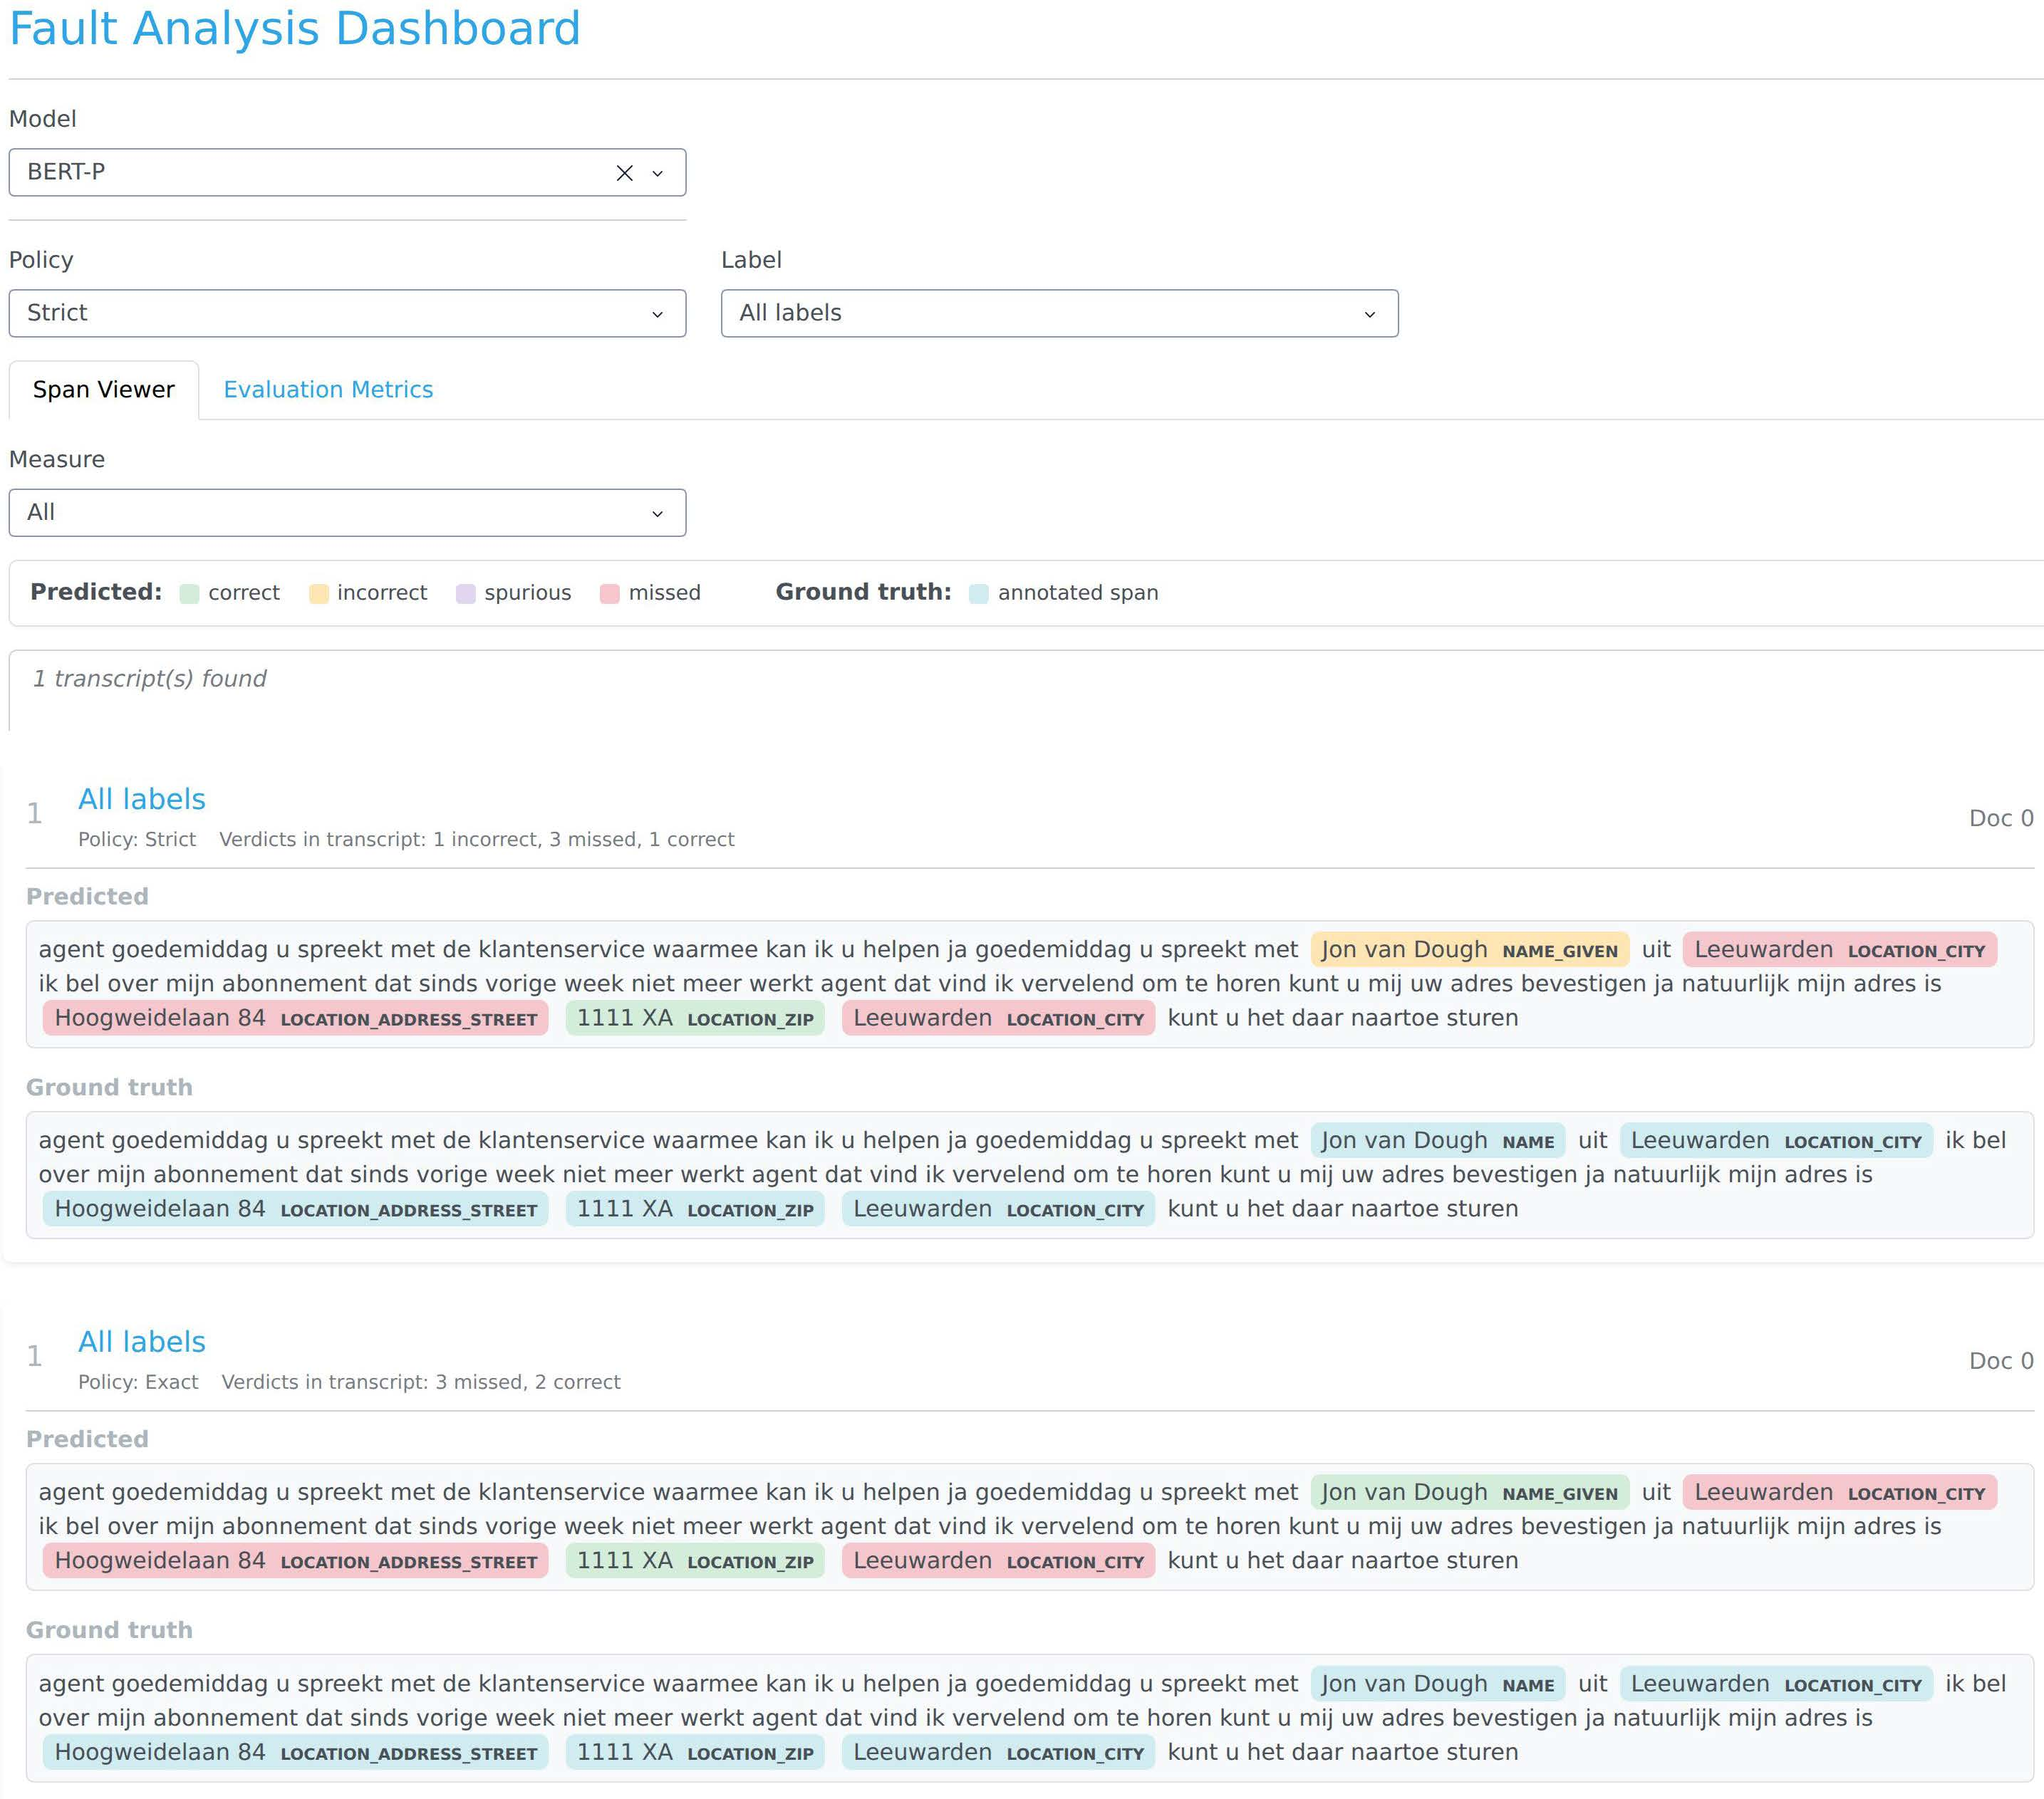
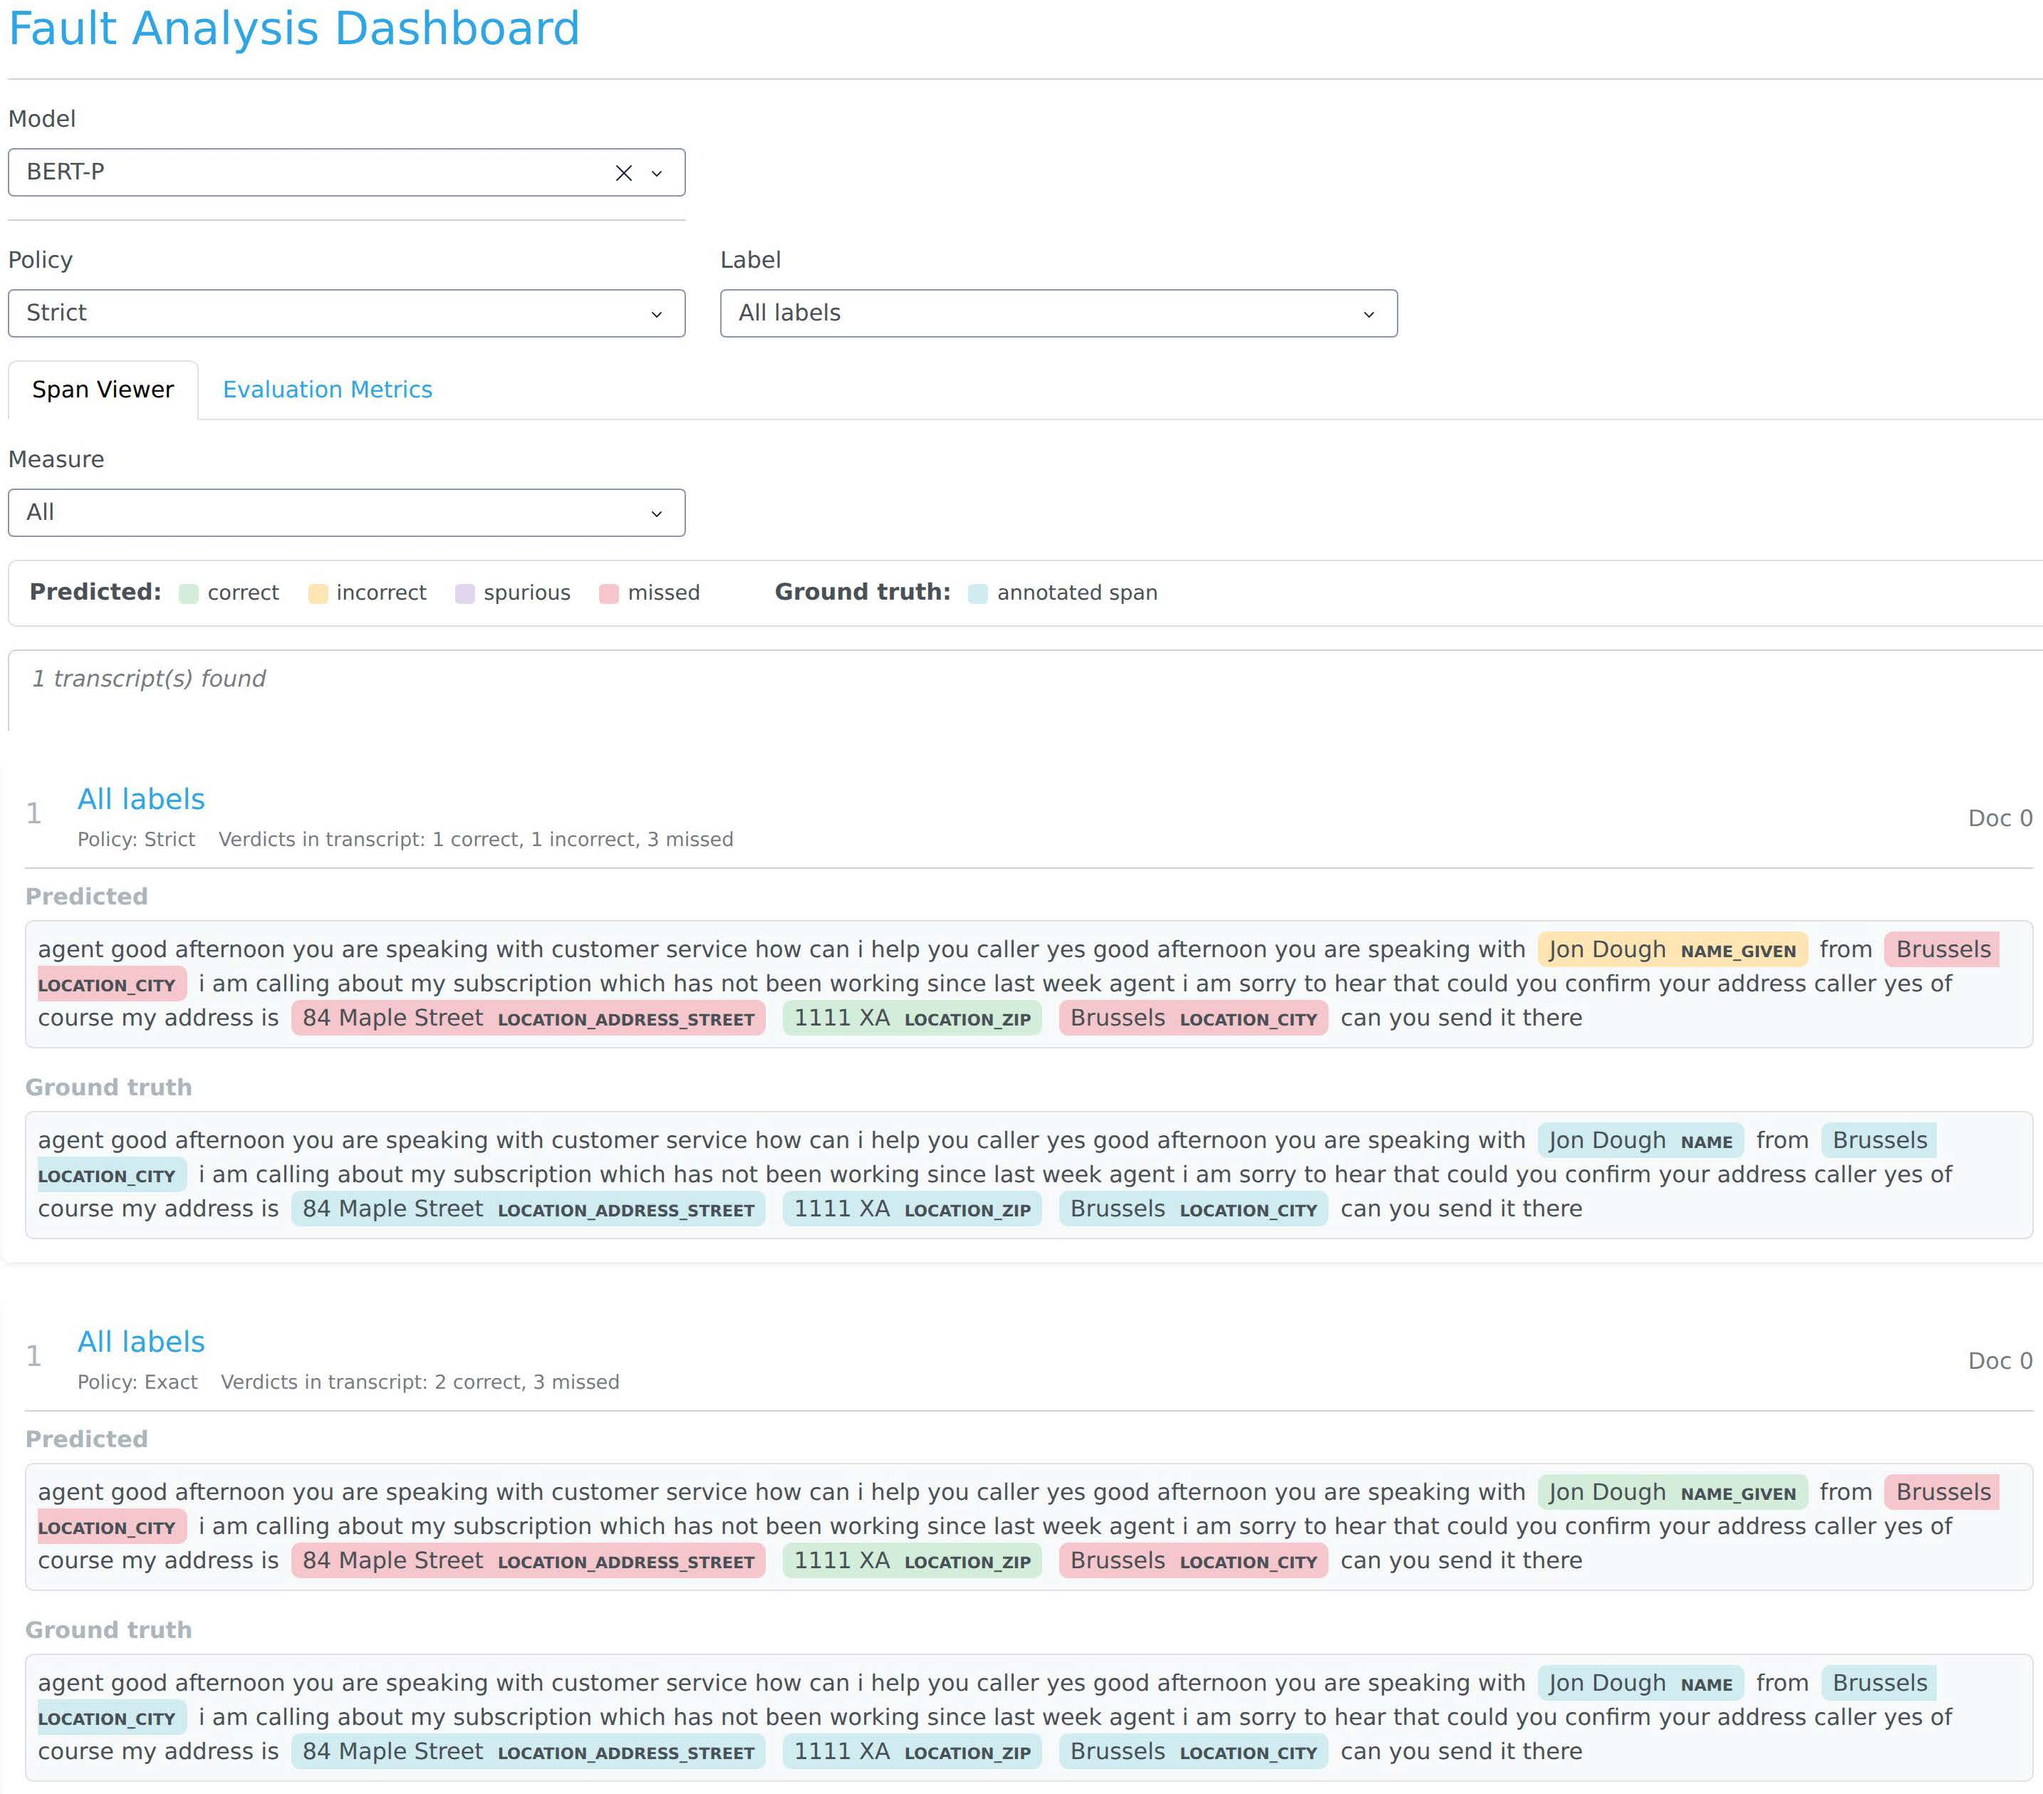
changes in the files

diff --git a/nervis.py b/nervis.py
@@ -44,7 +44,12 @@ def _load_mock_text(path):
     for line in raw_lines:
         if not line.strip():
             continue
-        cleaned.append(speaker_re.sub("", line).strip())
+        # Replace the "Agent:"/"Caller:" prefix with a plain lowercase
+        # speaker word so the output reads like a continuous transcript
+        # (e.g. "agent good afternoon ... caller yes good afternoon ...").
+        cleaned.append(
+            speaker_re.sub(lambda m: m.group(1).lower() + " ", line).strip()
+        )
     return " ".join(cleaned)
 
 
@@ -57,16 +62,16 @@ def _locate(text, needle, start=0):
 
 
 # Card 1 entity: full name span
-_c1_start, _c1_end = _locate(MOCK_TEXT, "Jon van Dough")
+_c1_start, _c1_end = _locate(MOCK_TEXT, "Jon Dough")
 # First occurrence of the city (next to the name)
-_city1_start, _city1_end = _locate(MOCK_TEXT, "Leeuwarden")
+_city1_start, _city1_end = _locate(MOCK_TEXT, "Brussels")
 
 # Card 2 entity: postal code
 _c2_start, _c2_end = _locate(MOCK_TEXT, "1111 XA")
 # Street name
-_street_start, _street_end = _locate(MOCK_TEXT, "Hoogweidelaan 84")
+_street_start, _street_end = _locate(MOCK_TEXT, "84 Maple Street")
 # Second occurrence of the city (in the address context)
-_second_city_start, _second_city_end = _locate(MOCK_TEXT, "Leeuwarden", _city1_end)
+_second_city_start, _second_city_end = _locate(MOCK_TEXT, "Brussels", _city1_end)
 
 # Predicted spans (as a model under study would produce):
 #   Card 1: boundaries match ground truth, label differs (NAME_GIVEN vs NAME).
@@ -74,7 +79,7 @@ _second_city_start, _second_city_end = _locate(MOCK_TEXT, "Leeuwarden", _city1_e
 #   Card 2: boundaries and label both match ground truth.
 #           This prediction is correct under both policies.
 pred_labels = [
-    {"text": "Jon van Dough", "label": "NAME_GIVEN",
+    {"text": "Jon Dough", "label": "NAME_GIVEN",
      "start": _c1_start, "end": _c1_end},
     {"text": "1111 XA", "label": "LOCATION_ZIP",
      "start": _c2_start, "end": _c2_end},
@@ -82,15 +87,15 @@ pred_labels = [
 
 # Ground truth annotations
 true_labels = [
-    {"text": "Jon van Dough", "label": "NAME",
+    {"text": "Jon Dough", "label": "NAME",
      "start": _c1_start, "end": _c1_end},
-    {"text": "Leeuwarden", "label": "LOCATION_CITY",
+    {"text": "Brussels", "label": "LOCATION_CITY",
      "start": _city1_start, "end": _city1_end},
-    {"text": "Hoogweidelaan 84", "label": "LOCATION_ADDRESS_STREET",
+    {"text": "84 Maple Street", "label": "LOCATION_ADDRESS_STREET",
      "start": _street_start, "end": _street_end},
     {"text": "1111 XA", "label": "LOCATION_ZIP",
      "start": _c2_start, "end": _c2_end},
-    {"text": "Leeuwarden", "label": "LOCATION_CITY",
+    {"text": "Brussels", "label": "LOCATION_CITY",
      "start": _second_city_start, "end": _second_city_end},
 ]
 
